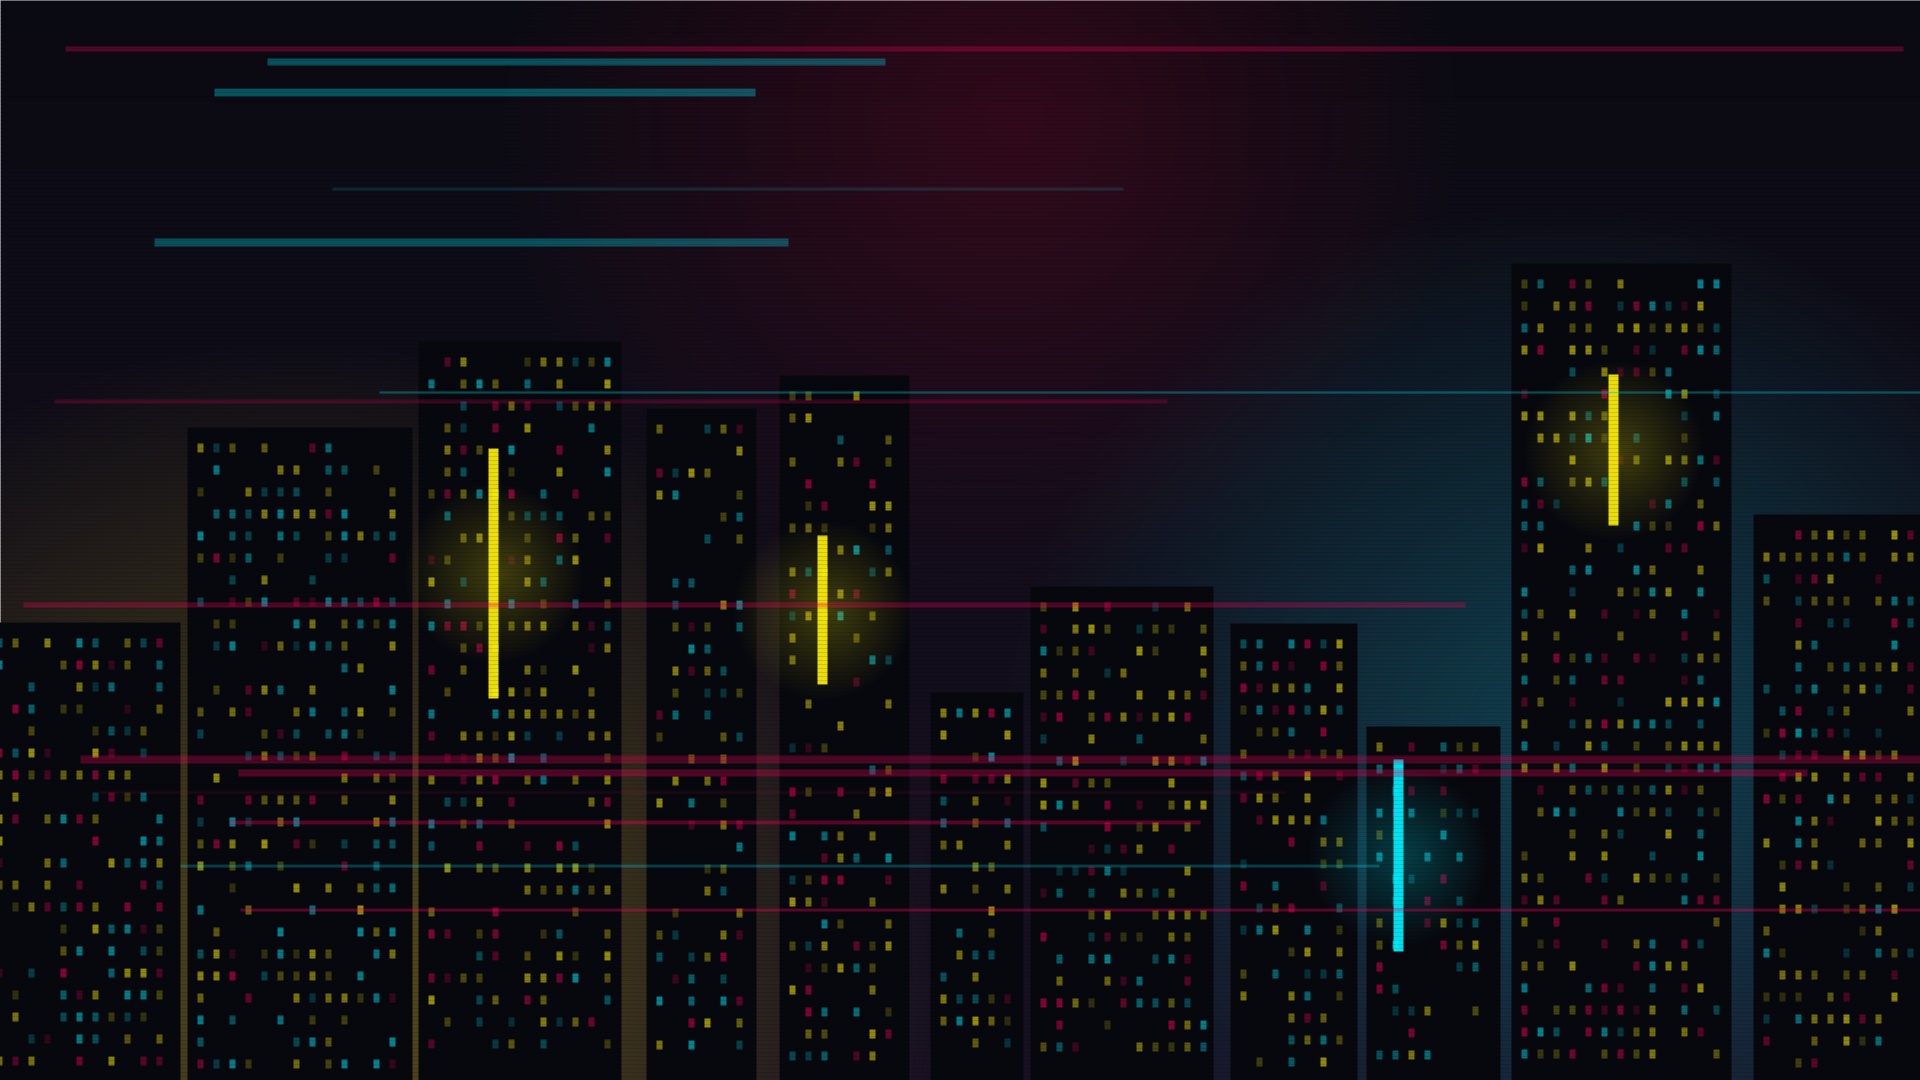
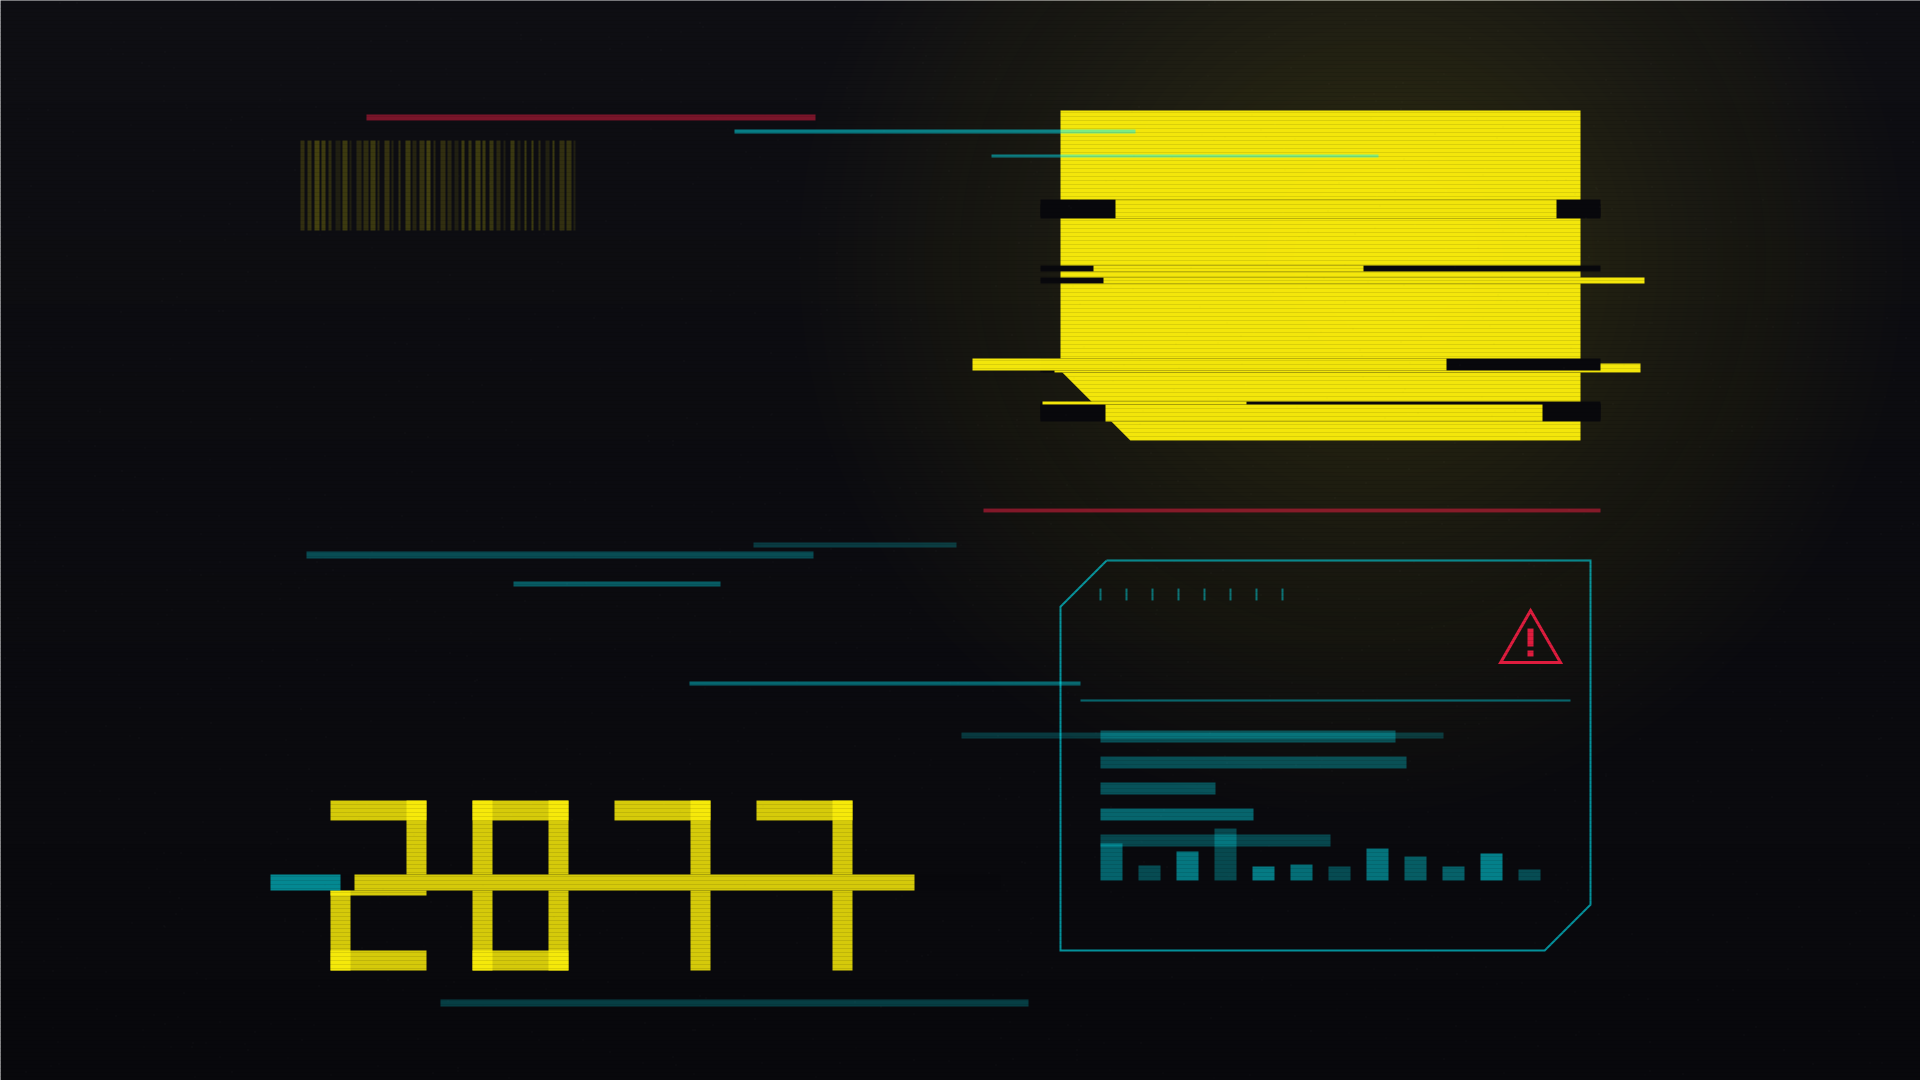
Cyberpunk theme: the actual 2077 graphic identity
The scene was a generic neon cityscape. The real Cyberpunk 2077 look is
graphic design: a chrome-yellow block cut by black displacement slices
with spurs jutting past its edges, a chamfered cyan HUD frame with tick
marks, signal bars, data rows and a red warning triangle, a glitched
seven-segment 2077, a barcode strip, stray cyan/red interference
slices, scanlines and grain. Wash lightened so the yellow punches.

diff --git a/src/main.ts b/src/main.ts
@@ -997,7 +997,7 @@ THEMES.cyberpunk = mkTheme(
   "Cyberpunk",
   "white",
   ['"Cascadia Code", "Cascadia Mono", monospace', 1.15, "block"],
-  'linear-gradient(rgba(10,10,18,0.5), rgba(10,10,18,0.66)), url("/backgrounds/cyberpunk.png") center / cover no-repeat, linear-gradient(180deg, #0d0d12, #16101f)',
+  'linear-gradient(rgba(10,10,18,0.35), rgba(10,10,18,0.5)), url("/backgrounds/cyberpunk.png") center / cover no-repeat, linear-gradient(180deg, #0d0d12, #16101f)',
   "#0d0d12",
   "#eaeaf0",
   [
